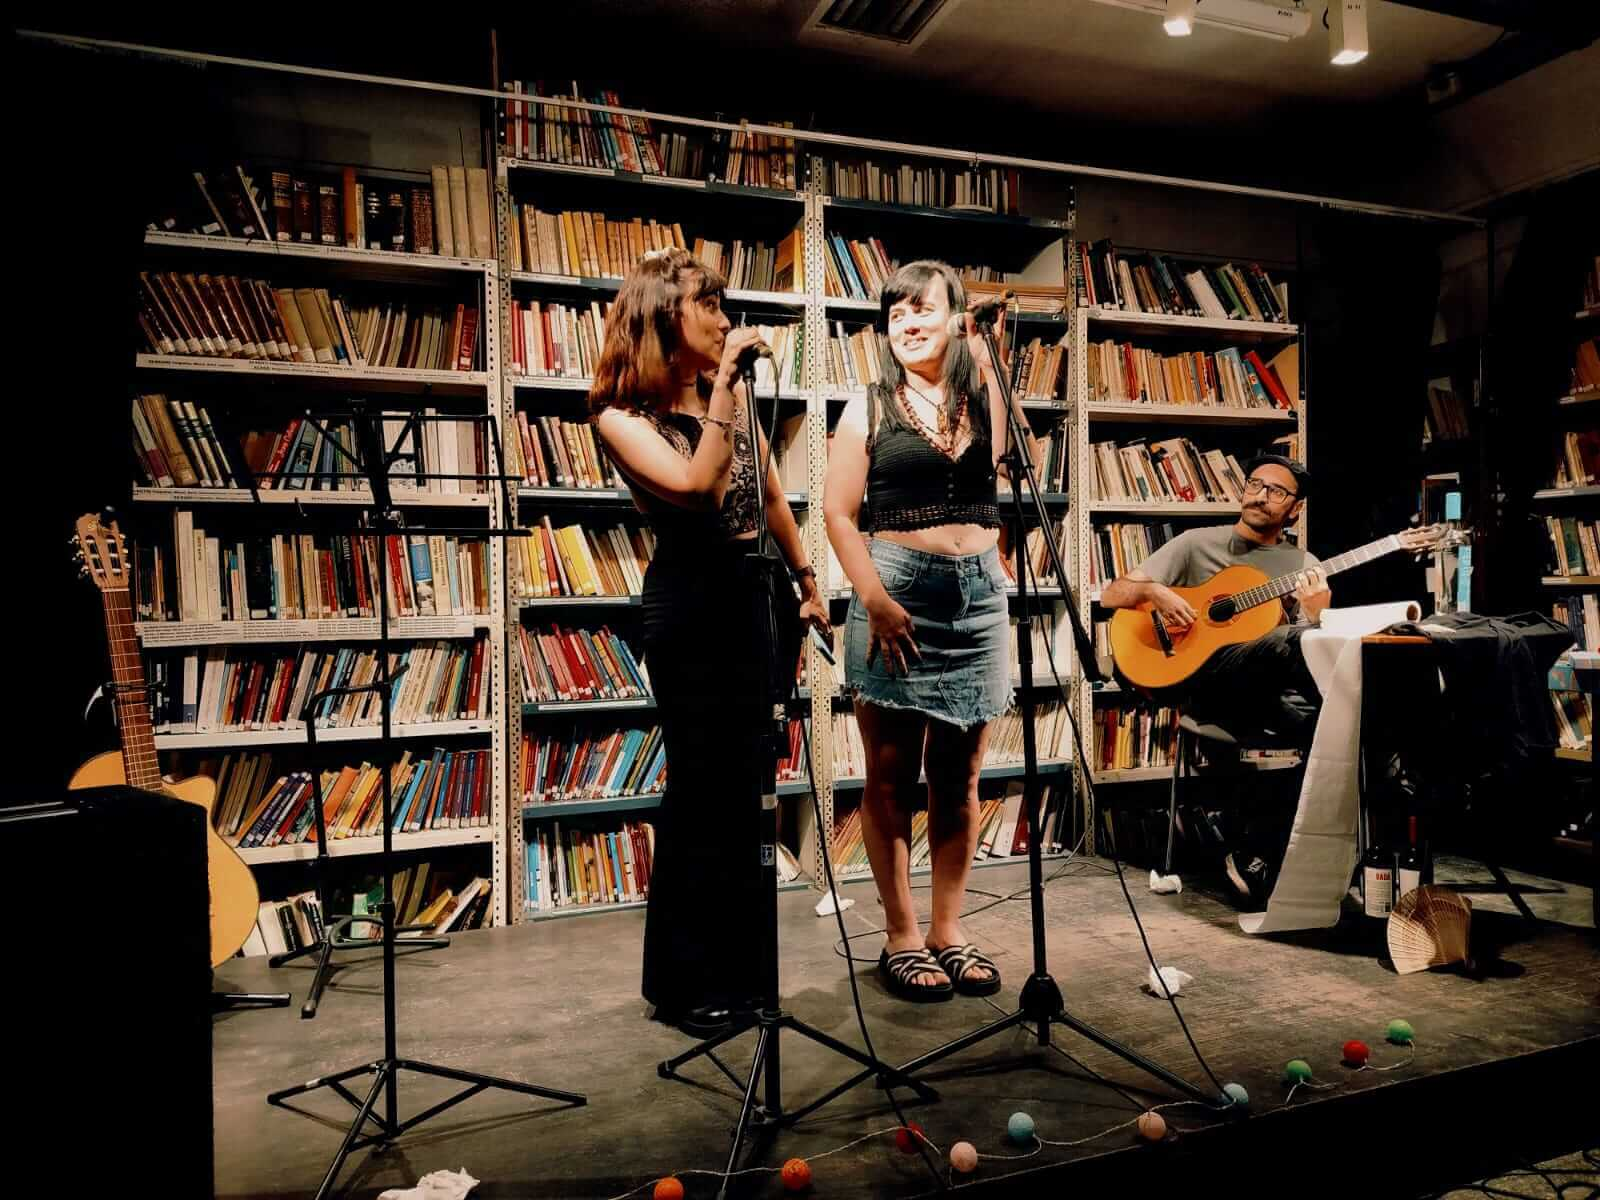
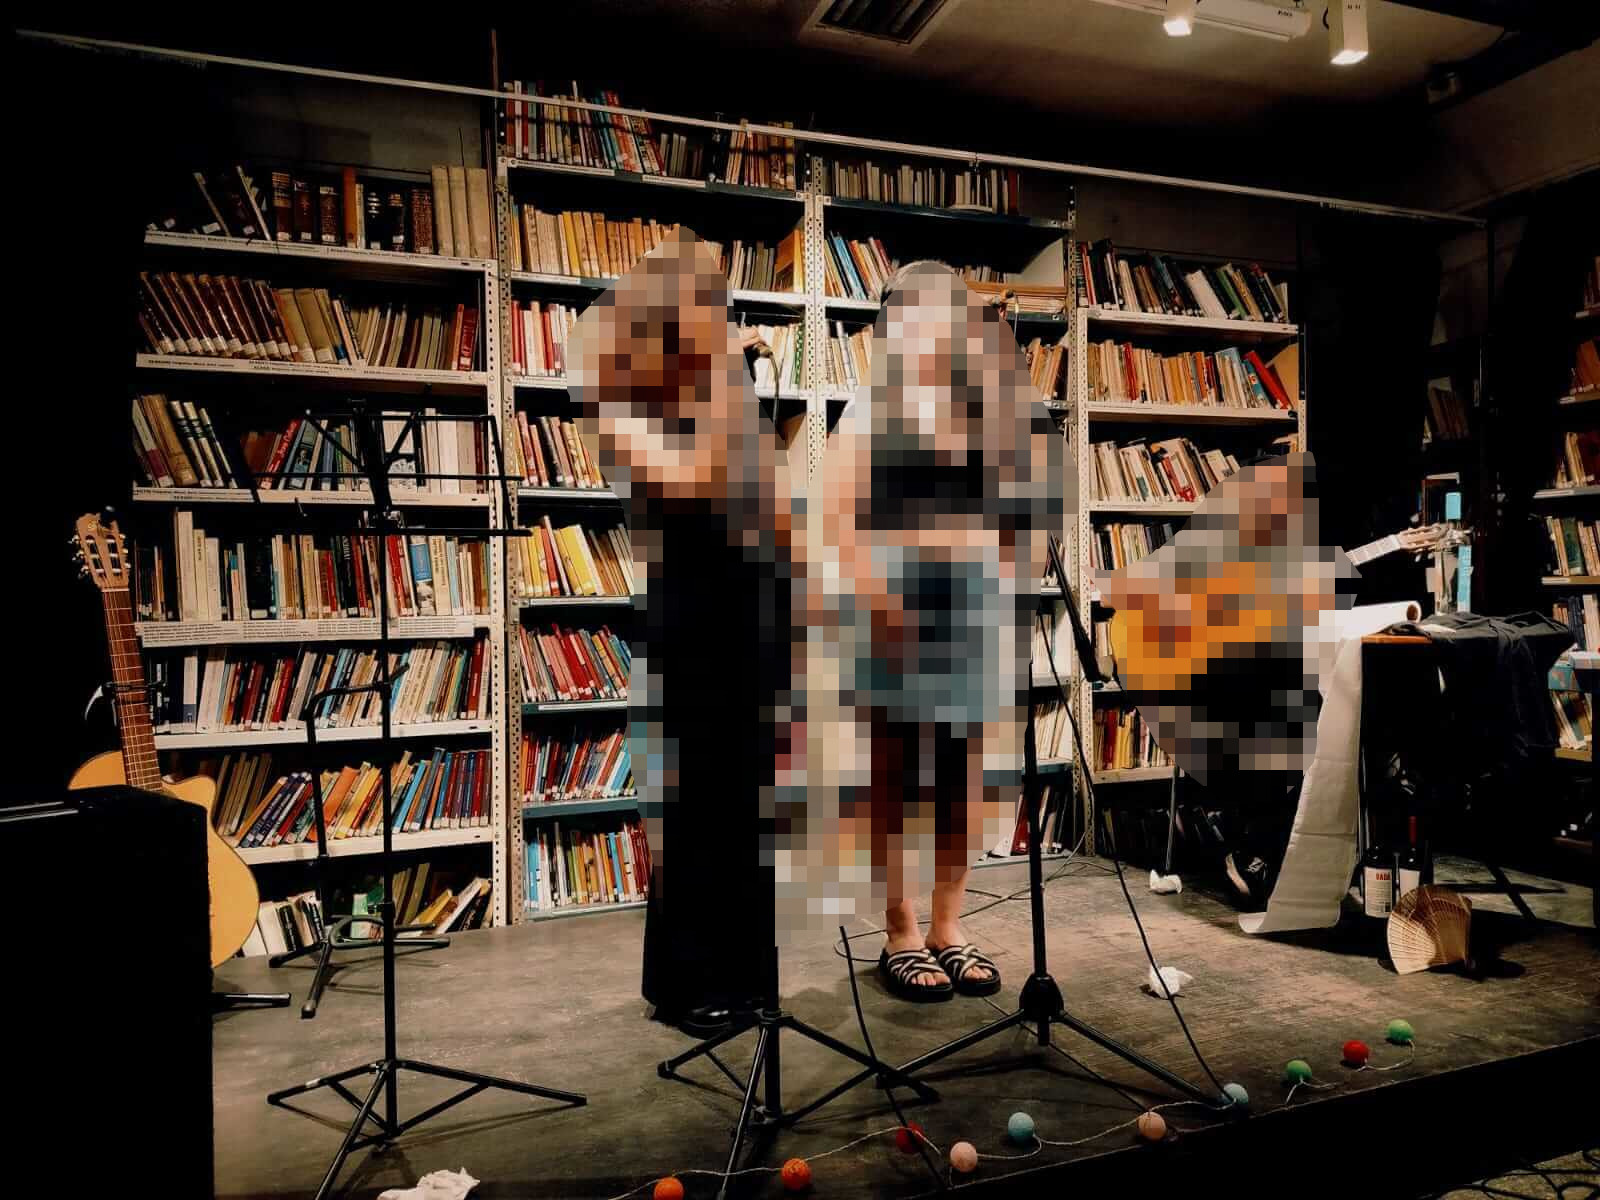
corrección en imagen de eventos

Changed region(s): [[0.3438, 0.185, 0.6875, 0.7708], [0.6875, 0.37, 0.8438, 0.6475], [0.375, 0.5242, 0.4375, 0.74]]

diff --git a/pages/eventos.html b/pages/eventos.html
@@ -84,7 +84,7 @@
                     </div>
                     <!--ITEM EVENTO-->
                     <div class="item-evento col-9 col-sm-6 col-md-4 col-lg-3 animate__animated animate__slideInUp ">
-                        <img src="../assets/img/fotos/eventos/evento-organizadoras.jpg" alt="Las organizadoras del evento leyendo poesía" class="evento-img">
+                        <img src="../assets/img/fotos/eventos/evento-presentando.jpg" alt="Las organizadoras del evento leyendo poesía" class="evento-img">
                         <p>04/01/2025</p>
                         <p>Dos voces se alternan en perfecta armonía, complementándose para dar fuerza a su interpretación. Sus miradas reflejan complicidad, haciendo que el momento sea aún más especial.</p>
                     </div>
@@ -102,7 +102,7 @@
                     </div>
                     <!--ITEM EVENTO-->
                     <div class="item-evento col-9 col-sm-6 col-md-4 col-lg-3 animate__animated animate__slideInUp animate__slow ">
-                        <img src="../assets/img/fotos/eventos/evento-músico.jpg" alt="Músico cantando y tocando la guitarra en el evento" class="evento-img">
+                        <img src="../assets/img/fotos/eventos/evento-musico.jpg" alt="Músico cantando y tocando la guitarra en el evento" class="evento-img">
                         <p>04/01/2025</p>
                         <p>La música y la voz de Julián se fusionan en una interpretación llena de sentimiento. Con cada nota, la persona en el escenario logra transmitir su pasión por el canto.
                         </p>

diff --git a/pages/agenda.html b/pages/agenda.html
@@ -17,6 +17,7 @@
     <link rel="preconnect" href="https://fonts.googleapis.com">
     <link rel="preconnect" href="https://fonts.gstatic.com" crossorigin>
     <link href="https://fonts.googleapis.com/css2?family=IM+Fell+English+SC&family=Special+Elite&display=swap" rel="stylesheet">
+    
     <title> Ciclo de poesía la pasión - Agenda</title>
 </head>
 <body>
@@ -166,7 +167,6 @@
                     </div>
                 </article>
 
-
                 <!--ITEM FECHA FINALIZADA-->
                 <article class="row d-flex justify-content-center mb-5 animate__animated animate__fadeIn">
                     <div class="nuevo-evento col-10 finalizado">
@@ -202,7 +202,6 @@
                         </div>
                     </div>
                 </article>
-
 
                 <!--ITEM FECHA FINALIZADA-->
                 <article class="row d-flex justify-content-center mb-5 animate__animated animate__fadeIn">
